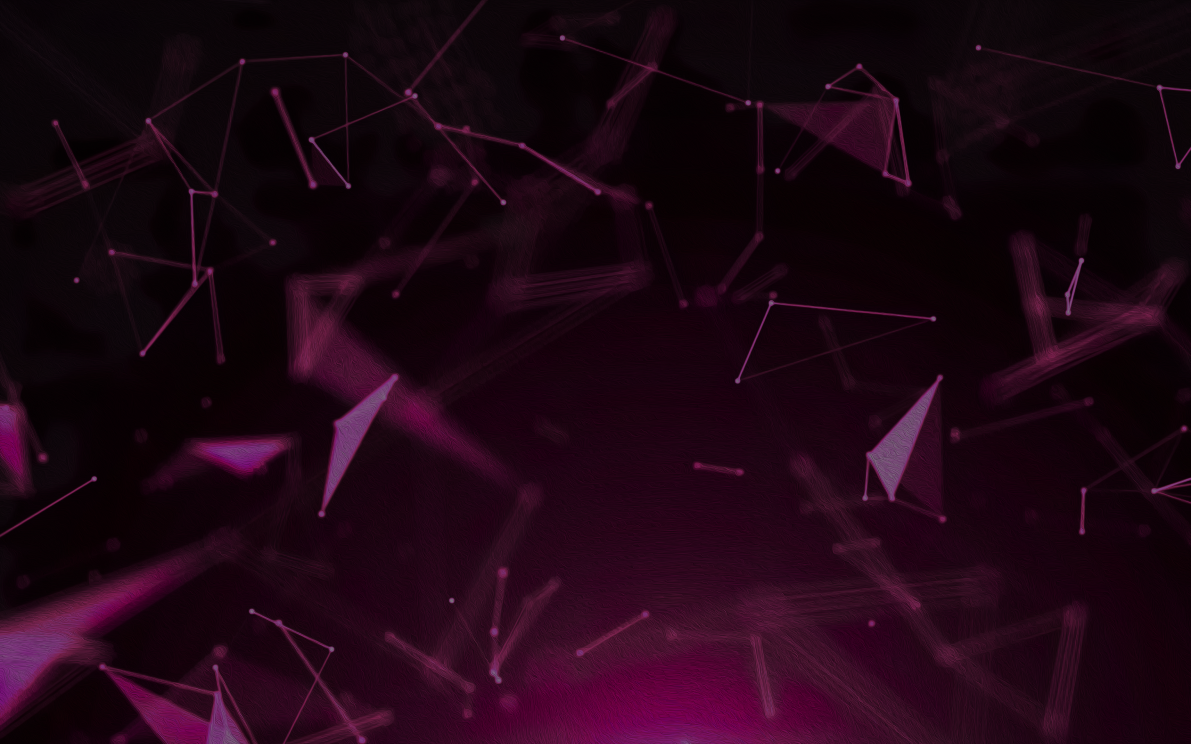
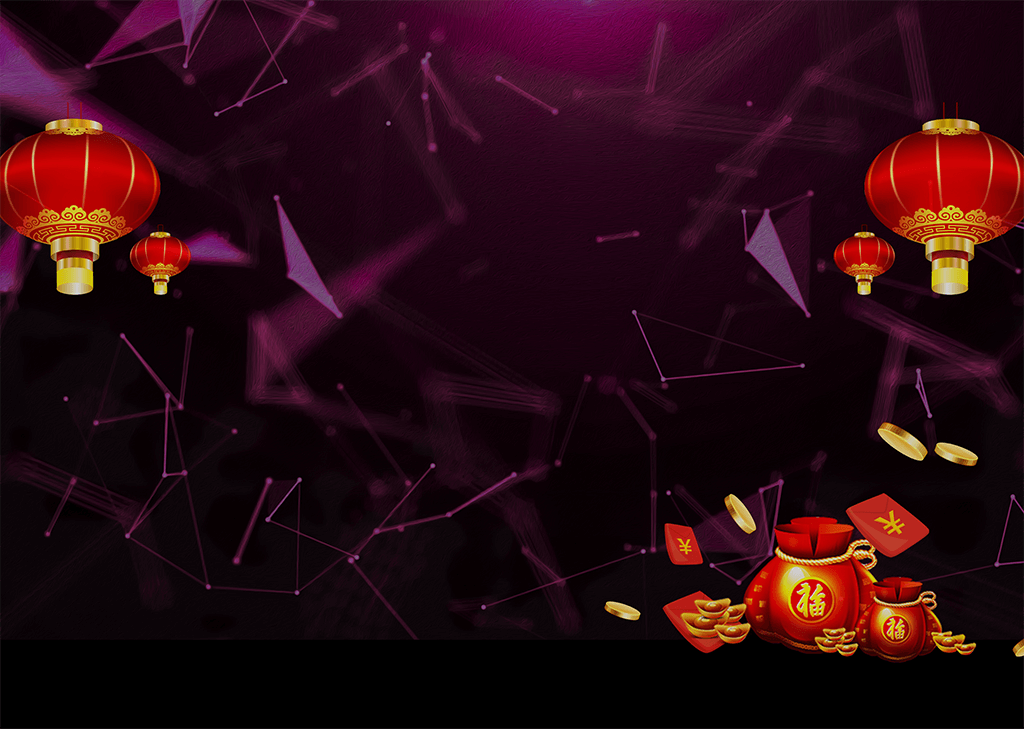
update new theme

diff --git a/src/Style/main.css b/src/Style/main.css
@@ -81,7 +81,7 @@ p {
 }
 
 .header .center {
-    background-image: url(../Images/logo.png);
+    background-image: url(../Images/logo-cny.gif);
     background-size: 100% 100%;
     background-repeat: no-repeat;
     height: 50px;
@@ -580,6 +580,19 @@ marquee {
 
 
 
+
+.wrapper {
+    background-image: url(../Images/bg-m.png);
+    background-size: cover;
+    background-repeat: no-repeat;
+    height: 100%;
+    width: 100%;
+    position: fixed;
+    overflow-y: scroll;
+}
+
+
+
 /*--- footer ---*/
 .line {
     margin-top: 1rem;
@@ -633,7 +646,7 @@ marquee {
     }
 
     .header .center {
-        background-image: url(../Images/logo.png);
+        background-image: url(../Images/logo-cny.gif);
         background-size: 100% 100%;
         background-repeat: no-repeat;
         height: 65px;
@@ -677,7 +690,7 @@ marquee {
     }
 
     .header .center {
-        background-image: url(../Images/logo.png);
+        background-image: url(../Images/logo-cny.gif);
         background-size: 100% 100%;
         background-repeat: no-repeat;
         height: 55px;

diff --git a/src/Pages/Header.js b/src/Pages/Header.js
@@ -1,7 +1,7 @@
 import React, { useState } from "react";
 import "../Style/main.css";
 
-// import logo from "../Images/logo.png";
+// import logo from "../Images/logo-cny.gif";
 import headerCoin from "../Images/icon-coid.png";
 import headerNofi from "../Images/icon-nofi.png";
 import headerBurger from "../Images/icon-burger.png";
